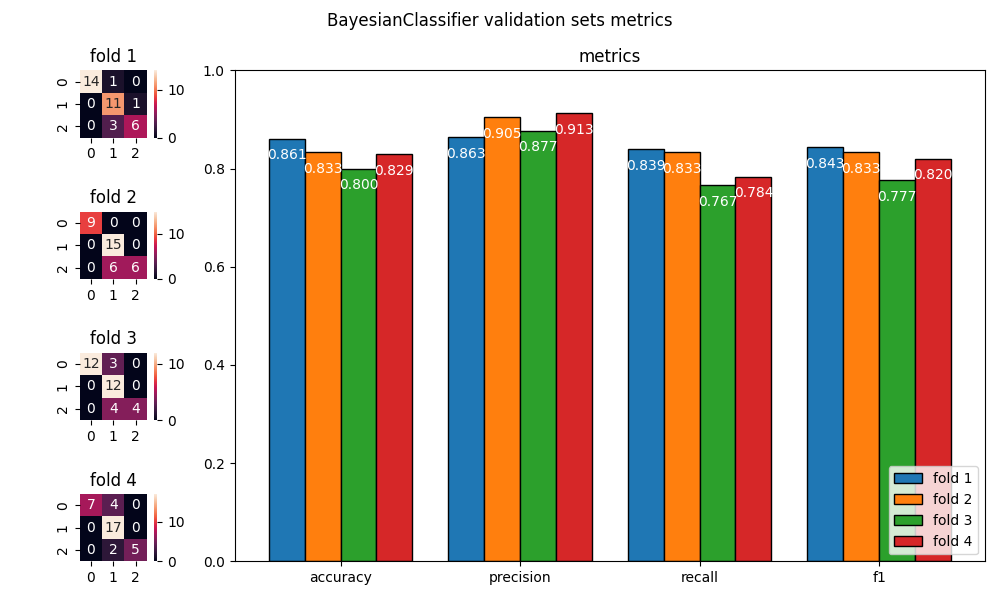
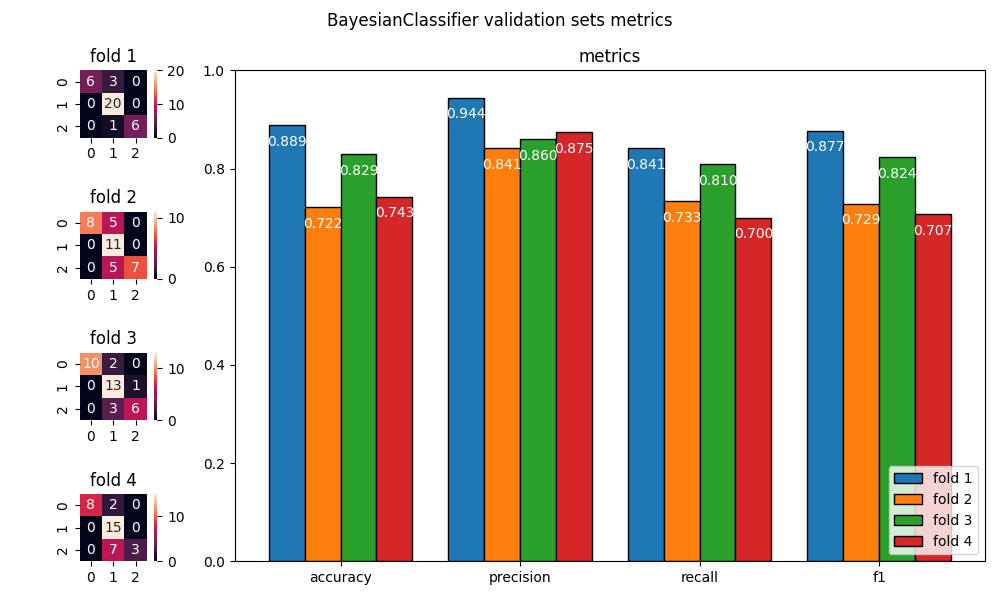
add validation avg

diff --git a/README.html b/README.html
@@ -43,7 +43,7 @@ Skrypt wygeneruje nowy model i wytrenuje go używając n-walidacji krzyżowej, a
 <tr>
 <th><code>TEST_SIZE</code></th>
 <th>porównanie przebiegów krzyżowania</th>
-<th>osiągi najlepszego przebiegu krzyżowania</th>
+<th>osiągi najlepszego przebiegu krzyżowania + śr. wszystkich przebiegów dla zb. wal.</th>
 </tr>
 </thead>
 <tbody>
@@ -85,7 +85,7 @@ Skrypt wygeneruje nowy model i wytrenuje go używając n-walidacji krzyżowej, a
 <tr>
 <th><code>N_SPLITS</code></th>
 <th>porównanie przebiegów krzyżowania</th>
-<th>osiągi najlepszego przebiegu krzyżowania</th>
+<th>osiągi najlepszego przebiegu krzyżowania + śr. wszystkich przebiegów dla zb. wal.</th>
 </tr>
 </thead>
 <tbody>
@@ -109,16 +109,11 @@ Skrypt wygeneruje nowy model i wytrenuje go używając n-walidacji krzyżowej, a
 <td><img src="plots/n-splits/val-5.png" alt="wykres" class="loading" id="image-hash--1644071181" data-src="plots/n-splits/val-5.png"></td>
 <td><img src="plots/n-splits/test-5.png" alt="wykres" class="loading" id="image-hash-5034534" data-src="plots/n-splits/test-5.png"></td>
 </tr>
-<tr>
-<td>6</td>
-<td><img src="plots/n-splits/val-6.png" alt="wykres" class="loading" id="image-hash--1643147660" data-src="plots/n-splits/val-6.png"></td>
-<td><img src="plots/n-splits/test-6.png" alt="wykres" class="loading" id="image-hash-5958055" data-src="plots/n-splits/test-6.png"></td>
-</tr>
 </tbody>
 </table>
 <ul>
-<li>zbyt duża wartość parametru sprzyja przetrenowaniu</li>
-<li>zbyt mała wartość parametru sprzyja niedotrenowaniu</li>
+<li>zbyt duża wartość parametru sprzyja przetrenowaniu widocznym na zbiorze testowym</li>
+<li>zbyt mała wartość parametru sprzyja niedotrenowaniu widocznym na zbiorze testowym</li>
 <li>może to być efekt zwiększania rozmiaru zbioru treningowego w porównaniu do zbioru walidacyjnego</li>
 </ul>
 <h3 id="parametr-nbins">Parametr <code>N_BINS</code></h3>
@@ -128,7 +123,7 @@ Skrypt wygeneruje nowy model i wytrenuje go używając n-walidacji krzyżowej, a
 <tr>
 <th><code>N_BINS</code></th>
 <th>porównanie przebiegów krzyżowania</th>
-<th>osiągi najlepszego przebiegu krzyżowania</th>
+<th>osiągi najlepszego przebiegu krzyżowania + śr. wszystkich przebiegów dla zb. wal.</th>
 </tr>
 </thead>
 <tbody>

diff --git a/main.py b/main.py
@@ -14,8 +14,12 @@ N_BINS = 5
 TEST_SIZE = 0.2
 N_SPLITS = 4
 
+SAVE_PLT_VAL = ''
+SAVE_PLT_TEST = ''
+GENERATE_PLOTS = False
 
-if __name__ == "__main__":
+
+def main():
     X, y = load_wine(return_X_y=True, as_frame=True)
 
     discretizer = KBinsDiscretizer(
@@ -35,6 +39,10 @@ if __name__ == "__main__":
     cms_train: List[np.ndarray] = []
     metrics_val: List[Dict[str, float]] = []
     cms_val: List[np.ndarray] = []
+
+    y_val_total = pd.Series([], dtype=y.dtype, name=y.name)
+    y_pred_val_total = pd.Series([], dtype=y.dtype, name=y.name)
+
     for train_index, val_index in kfold.split(X_rest, y_rest):
         X_train = X_rest.iloc[train_index]
         y_train = y_rest.iloc[train_index]
@@ -55,13 +63,20 @@ if __name__ == "__main__":
         metrics_val.append(m_val)
         cms_val.append(cm_val)
 
+        y_val_total = pd.concat([y_val_total, y_val])
+        y_pred_val_total = pd.concat([y_pred_val_total, y_pred_val])
+
     plot_model(
         metrics_val,
         cms_val,
         tuple(f'fold {i+1}' for i in range(len(models))),
         "BayesianClassifier validation sets metrics"
     )
-    plt.show()
+    if SAVE_PLT_VAL:
+        plt.savefig(SAVE_PLT_VAL)
+    else:
+        plt.show()
+    plt.close()
 
     best_i = max(range(len(models)),
                  key=lambda i: sum(metrics_val[i].values()))
@@ -73,10 +88,43 @@ if __name__ == "__main__":
     y_pred_test = model.predict(X_test)
     m_test, cm_test = get_metrics(y_test, y_pred_test)
 
+    m_val_avg, cm_val_avg = get_metrics(y_val_total, y_pred_val_total)
+
     plot_model(
-        (m_train, m_val, m_test),
-        (cm_train, cm_val, cm_test),
-        ("train", "validation", "test"),
-        "BayesianClassifier best fold metrics"
+        (m_train, m_val, m_test, m_val_avg),
+        (cm_train, cm_val, cm_test, cm_val_avg),
+        ("train", "validation", "test", "validation avg"),
+        "BayesianClassifier best fold metrics and validation average"
     )
-    plt.show()
+    if SAVE_PLT_TEST:
+        plt.savefig(SAVE_PLT_TEST)
+    else:
+        plt.show()
+    plt.close()
+
+
+if __name__ == "__main__":
+    if not GENERATE_PLOTS:
+        main()
+        exit(0)
+
+    for test_size in [0.1, 0.2, 0.3, 0.4, 0.5]:
+        TEST_SIZE = test_size
+        SAVE_PLT_VAL = f'plots/test-size/val-{test_size:.2f}.png'.replace(
+            ".", ",", 1)
+        SAVE_PLT_TEST = f'plots/test-size/test-{test_size:.2f}.png'.replace(
+            ".", ",", 1)
+        main()
+    TEST_SIZE = 0.2
+    for n_split in [2, 3, 4, 5]:
+        N_SPLITS = n_split
+        SAVE_PLT_VAL = f'plots/n-splits/val-{n_split}.png'
+        SAVE_PLT_TEST = f'plots/n-splits/test-{n_split}.png'
+        main()
+    N_SPLITS = 4
+    for n_bins in [2, 3, 5, 7, 10]:
+        N_BINS = n_bins
+        SAVE_PLT_VAL = f'plots/n-bins/val-{n_bins}.png'
+        SAVE_PLT_TEST = f'plots/n-bins/test-{n_bins}.png'
+        main()
+    N_BINS = 5

diff --git a/README.md b/README.md
@@ -29,7 +29,7 @@ Skrypt wygeneruje nowy model i wytrenuje go używając n-walidacji krzyżowej, a
 ### Parametr `TEST_SIZE`
 Parametr ten kontroluje jaka część zbioru wine jest przeznaczona na zbiór testowy.
 
-`TEST_SIZE` | porównanie przebiegów krzyżowania | osiągi najlepszego przebiegu krzyżowania
+`TEST_SIZE` | porównanie przebiegów krzyżowania | osiągi najlepszego przebiegu krzyżowania + śr. wszystkich przebiegów dla zb. wal.
 -|-|-
 0,1 | ![wykres](plots/test-size/val-0,10.png) | ![wykres](plots/test-size/test-0,10.png)
 0,2 | ![wykres](plots/test-size/val-0,20.png) | ![wykres](plots/test-size/test-0,20.png)
@@ -43,22 +43,22 @@ Parametr ten kontroluje jaka część zbioru wine jest przeznaczona na zbiór te
 ### Parametr `N_SPLITS`
 Parametr ten kontroluje na ile równych części dzielony jest zbiór, który zostaje rozdysponowany na zbiór treningowy i walidacyjny (1 część na walidacyjny, reszta na treningowy).
 
-`N_SPLITS` | porównanie przebiegów krzyżowania | osiągi najlepszego przebiegu krzyżowania
+`N_SPLITS` | porównanie przebiegów krzyżowania | osiągi najlepszego przebiegu krzyżowania + śr. wszystkich przebiegów dla zb. wal.
 -|-|-
 2 | ![wykres](plots/n-splits/val-2.png) | ![wykres](plots/n-splits/test-2.png)
 3 | ![wykres](plots/n-splits/val-3.png) | ![wykres](plots/n-splits/test-3.png)
 4 | ![wykres](plots/n-splits/val-4.png) | ![wykres](plots/n-splits/test-4.png)
 5 | ![wykres](plots/n-splits/val-5.png) | ![wykres](plots/n-splits/test-5.png)
-6 | ![wykres](plots/n-splits/val-6.png) | ![wykres](plots/n-splits/test-6.png)
 
-* zbyt duża wartość parametru sprzyja przetrenowaniu
-* zbyt mała wartość parametru sprzyja niedotrenowaniu
+* zbyt duża wartość parametru sprzyja przetrenowaniu widocznym na zbiorze testowym
+* zbyt mała wartość parametru sprzyja niedotrenowaniu widocznym na zbiorze testowym
 * może to być efekt zwiększania rozmiaru zbioru treningowego w porównaniu do zbioru walidacyjnego
+* efektu przetrenowania nie widać na ocenie średniej ze wszystkich przebiegów, ponieważ jest ona obliczana dla coraz mniejszego zbioru walidacyjnego, który coraz gorzej reprezentuje dane
 
 ### Parametr `N_BINS`
 Parametr ten kontroluje ilość przedziałów w dyskretyzacji każdej kolumny danych wejściowych do klasyfikatora.
 
-`N_BINS` | porównanie przebiegów krzyżowania | osiągi najlepszego przebiegu krzyżowania
+`N_BINS` | porównanie przebiegów krzyżowania | osiągi najlepszego przebiegu krzyżowania + śr. wszystkich przebiegów dla zb. wal.
 -|-|-
 2 | ![wykres](plots/n-bins/val-2.png) | ![wykres](plots/n-bins/test-2.png)
 3 | ![wykres](plots/n-bins/val-3.png) | ![wykres](plots/n-bins/test-3.png)
